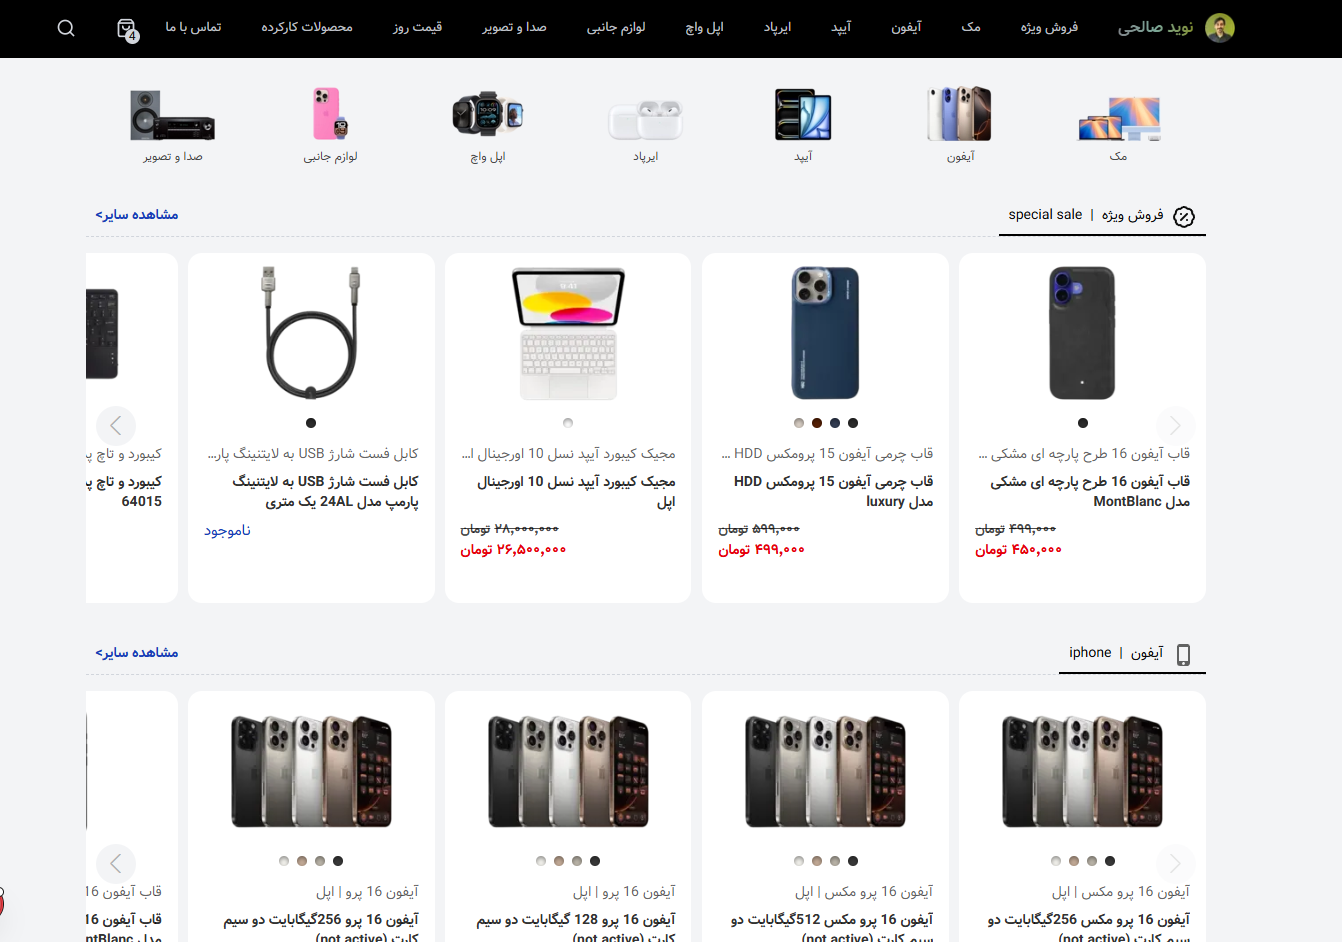
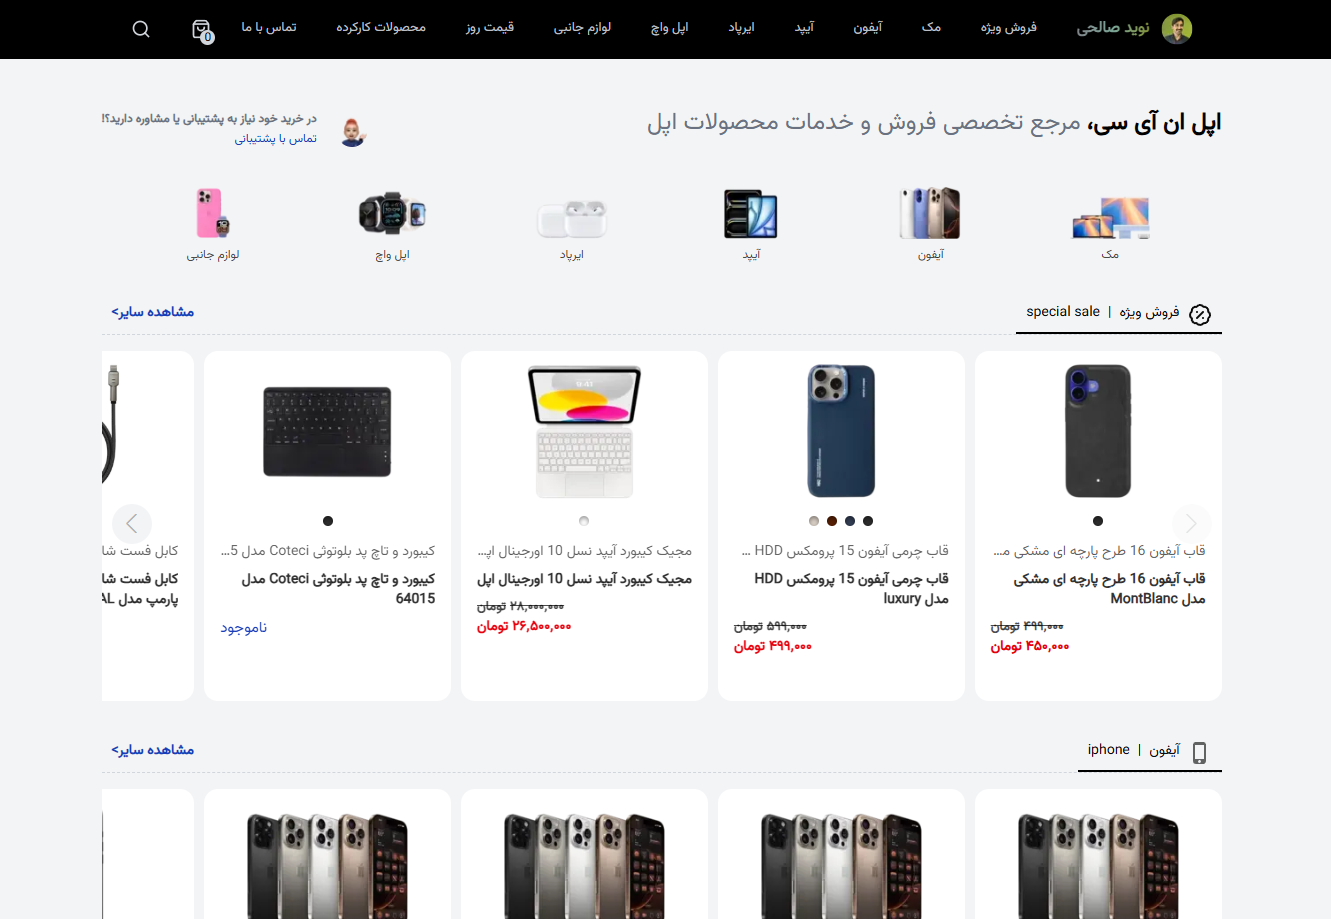
feat:add memorycardgame to projects

diff --git a/src/lib/data.tsx b/src/lib/data.tsx
@@ -37,6 +37,8 @@ export const icons = [
 
 export const projects = [
     {id:1, href:'https://navidsalehi-cv.ir/', image:'applenic.png', title:'فروشگاه آنلاین', describe:'این پروژه نسخهای بازسازیشده از وبسایت www.apple-nic.com   است. در این پروژه ساختار کامل یک فروشگاه آنلاین شامل نمایش محصولات، فیلترها، سبدخرید، لاگین و جزئیات محصول اجرا شده تا عملکرد و طراحی سایت اصلی بهصورت واقعی شبیهسازی شود'},
+    {id:2, href:'https://memorycardgame1.vercel.app/', image:'memorycardgame.png', title:'بازی کارت حافظه', describe: 'بازی کارت حافظه با چند سطح سختی (۴×۴، ۸×۸ و ۱۶×۱۶) شامل سیستم امتیازدهی، تایمر، ثبت بهترین رکورد و مودال پایان بازی با امکان شروع مجدد.'},
+
 ]
 
 export const socialMediaIcon =[
@@ -45,3 +47,4 @@ export const socialMediaIcon =[
     {id:3,icon:<FaLinkedin /> , tooltip:'لینک دین',href:'https://www.linkedin.com/in/navid-salehi-3b4a57341', className:'text-blue-600'},
     {id:4,icon:<FaTelegram /> , tooltip:'تلگرام',href:'https://t.me/navidslh', className:'text-blue-400'},
 ]
+

diff --git a/src/component/projects/ProjectCard.tsx b/src/component/projects/ProjectCard.tsx
@@ -20,7 +20,7 @@ const ProjectCard = ({ data }: Props) => {
   return (
     <MotionLink
       href={href}
-      className="bg-gray-900 w-[300px] h-[350px] rounded-xl flex flex-col justify-between relative overflow-hidden"
+      className=" w-[300px] h-[350px] rounded-xl flex flex-col justify-between relative overflow-hidden"
       whileHover="hover"
       initial="initial"
       variants={{ hover: { y: -30, boxShadow: "5px 5px 10px #10101080"} }}
@@ -38,19 +38,19 @@ const ProjectCard = ({ data }: Props) => {
           },
         }}
         transition={{ duration: 0.5, ease: "easeIn" }}
+        className="w-full h-[190px]"
       >
         <Image
           src={`/${image}`}
           alt="projectImage"
           width={299}
-          height={299}
-          className="rounded-t-xl"
+          height={250}
+          className="rounded-t-xl object-contain"
         />
       </motion.div>
-      <div className="w-[300px] h-[190px] px-5 flex flex-col justify-between pb-7">
+      <div className="w-full h-[200px] px-5 flex flex-col justify-between pb-7 bg-gray-900">
         <div className="flex flex-col gap-2">
           <h2 className="text-white pt-7 hoverEffect">{title}</h2>
-
           <div className="text-justify text-white text-sm ">
             <motion.p
               variants={{

diff --git a/src/component/projects/ProjectsCards.tsx b/src/component/projects/ProjectsCards.tsx
@@ -4,7 +4,7 @@ import ProjectCard from './ProjectCard'
 
 const ProjectsCards = () => {
   return (
-    <div className='flex gap-3'>
+    <div className='flex flex-col md:flex-row gap-10'>
       {projects && projects.map(item =>
         <div key={item.id}>
           <ProjectCard data={item} />

diff --git a/src/component/skills/Skills.tsx b/src/component/skills/Skills.tsx
@@ -22,7 +22,7 @@ const Skills = () => {
           variants={container}
           initial="hidden"
           whileInView="show"
-          viewport={{once:true, amount:0.25}}
+          viewport={{once:true, amount:0}}
         >
           {icons.map((item) => (
             <motion.div
